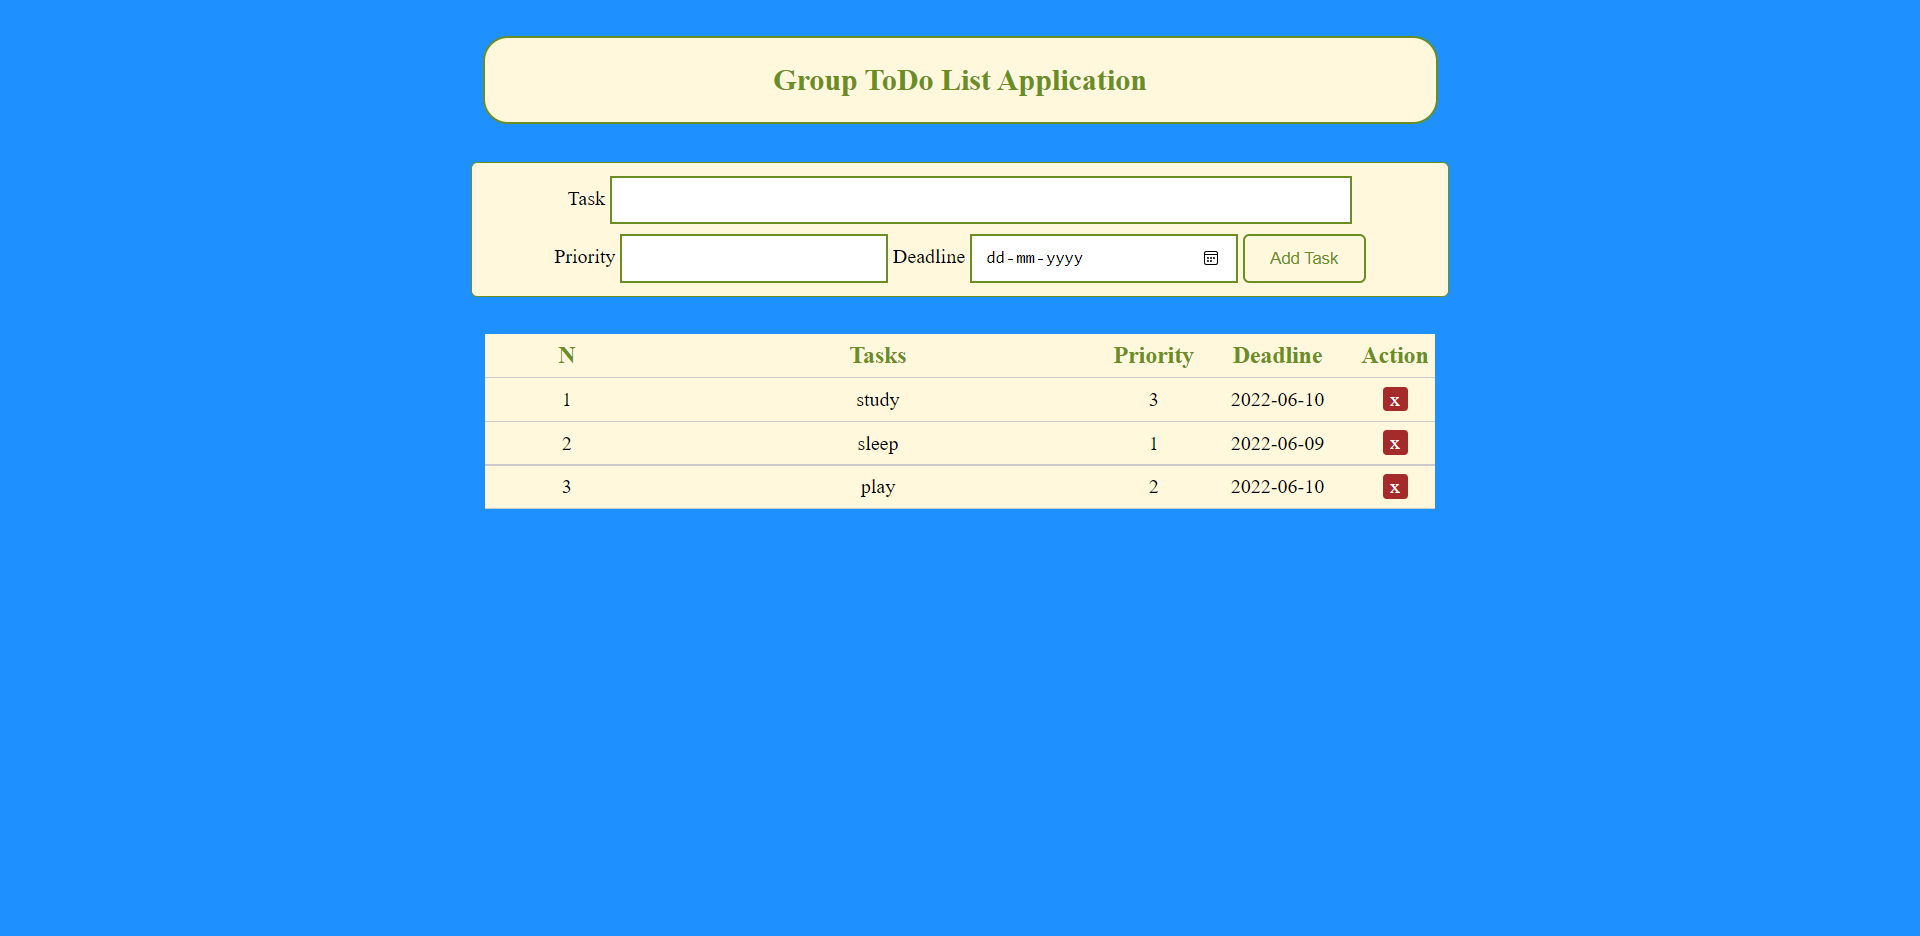
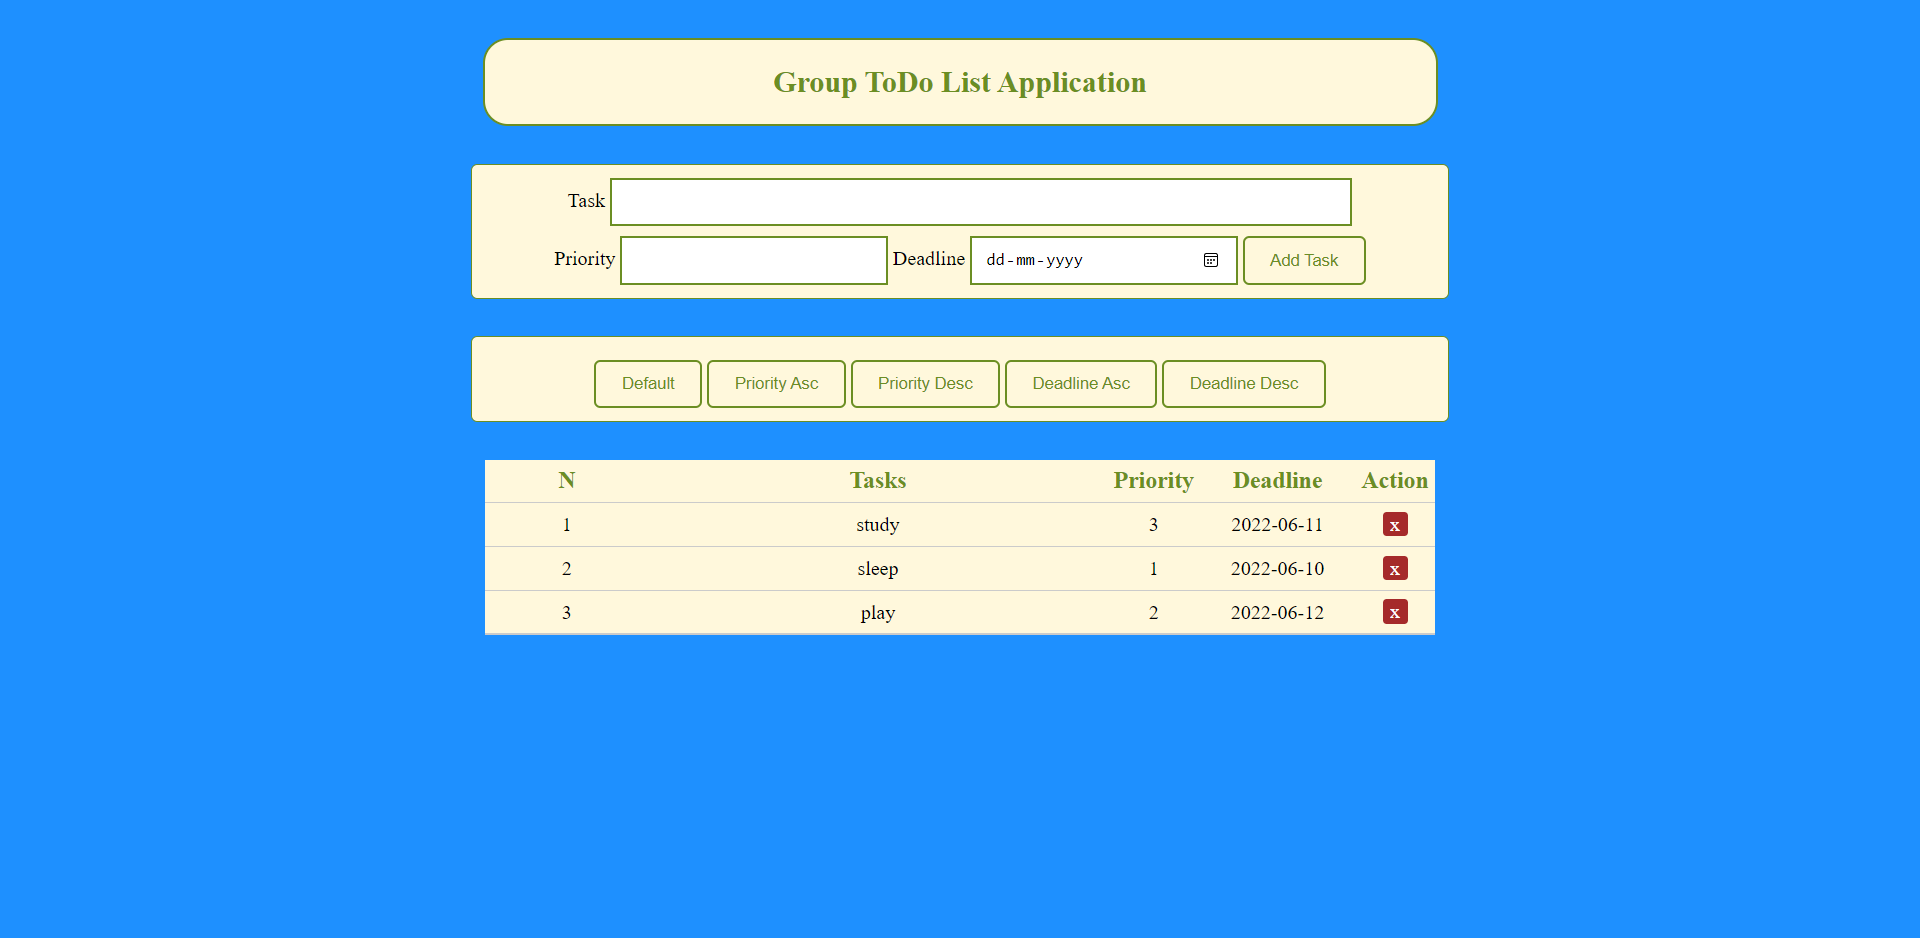
version 3

Changed region(s): [[0.2188, 0.031, 0.7812, 0.6816]]

diff --git a/index.php b/index.php
@@ -39,6 +39,28 @@
 		mysqli_query($db, "DELETE FROM tasks WHERE task_id=".$id);
 		header('location: index.php');
 	}
+	
+	$choice = 0;
+	//sort by choice
+	if (isset($_GET['default'])){
+		$choice = 0;
+	}
+	
+	if (isset($_GET['priority_asc'])){
+		$choice = 1;
+	}
+	
+	if (isset($_GET['priority_desc'])){
+		$choice = 2;
+	}
+	
+	if (isset($_GET['deadline_asc'])){
+		$choice = 3;
+	}
+	
+	if (isset($_GET['deadline_desc'])){
+		$choice = 4;
+	}
 ?>	
 
 <!DOCTYPE html>
@@ -63,6 +85,13 @@
 		<input type="date" name="deadline" class="task_input2">
 		<button type="submit" name="submit" id="add_btn" class="add_btn">Add Task</button>
 	</form>
+	<form method="get" action="index.php" class="input_form">
+		<button type="submit" name="default" id="default_btn" class="add_btn">Default</button>
+		<button type="submit" name="priority_asc" id="priority_asc_btn" class="add_btn">Priority Asc</button>
+		<button type="submit" name="priority_desc" id="priority_desc_btn" class="add_btn">Priority Desc</button>
+		<button type="submit" name="deadline_asc" id="deadline_asc_btn" class="add_btn">Deadline Asc</button>
+		<button type="submit" name="deadline_desc" id="deadline_desc_btn" class="add_btn">Deadline Desc</button>
+	</form>
 	<table>
 	<thead>
 		<tr>
@@ -77,7 +106,20 @@
 	<tbody>
 		<?php 
 		// select all tasks if page is visited or refreshed
-		$tasks = mysqli_query($db, "SELECT * FROM tasks");
+		$tasks = "";
+		if($choice==0){
+			$tasks = mysqli_query($db, "SELECT * FROM tasks");
+		}elseif($choice==1){
+			$tasks = mysqli_query($db, "SELECT * FROM tasks ORDER BY priority ASC");
+		}elseif($choice==2){
+			$tasks = mysqli_query($db, "SELECT * FROM tasks ORDER BY priority DESC");
+		}elseif($choice==3){
+			$tasks = mysqli_query($db, "SELECT * FROM tasks ORDER BY deadline ASC");
+		}elseif($choice==4){
+			$tasks = mysqli_query($db, "SELECT * FROM tasks ORDER BY deadline DESC");
+		}else{
+			$tasks = mysqli_query($db, "SELECT * FROM tasks");
+		}
 
 		$i = 1; while ($row = mysqli_fetch_array($tasks)) { ?>
 			<tr>

diff --git a/README.md b/README.md
@@ -19,9 +19,7 @@ This is a Group ToDo List that will help a group to keep track of tasks to be do
 ## Drawbacks
 * No Registration or Login system, thus, if hosted/deployed, anyone with the link can access it. 
 * No Account System, thus the group won't know which member added or deleted the task.
-
-## Future Scope
-* The tasks sorted by priority or deadline 
+* There could be chances of security issues like malicious attacks, if hosted/deployed.
 
 ## Reference
 https://codewithawa.com/posts/to-do-list-application-using-php-and-mysql-database
